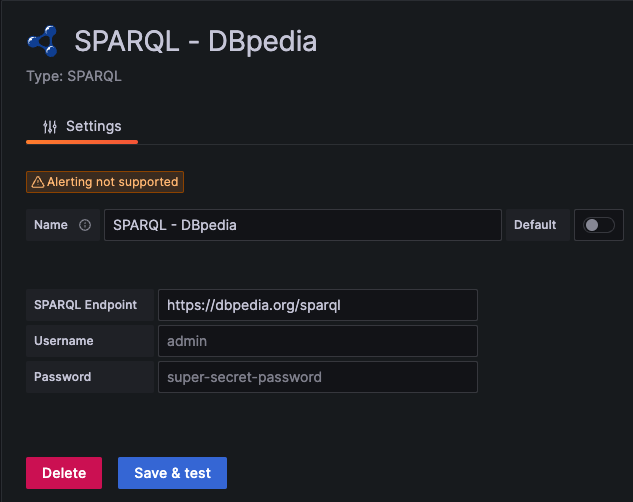
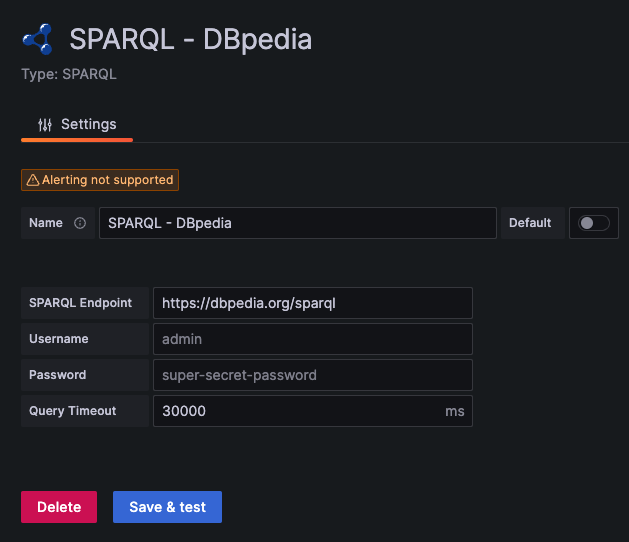
feat: configure the query timeout value

diff --git a/src/components/ConfigEditor.tsx b/src/components/ConfigEditor.tsx
@@ -24,6 +24,14 @@ export function ConfigEditor(props: Props) {
     onOptionsChange({ ...options, jsonData });
   };
 
+  const onTimeoutChange = (event: ChangeEvent<HTMLInputElement>) => {
+    const jsonData = {
+      ...options.jsonData,
+      timeout: event.target.value,
+    };
+    onOptionsChange({ ...options, jsonData });
+  };
+
   // Secure field (only sent to the backend)
   const onPasswordChange = (event: ChangeEvent<HTMLInputElement>) => {
     onOptionsChange({
@@ -73,6 +81,16 @@ export function ConfigEditor(props: Props) {
           placeholder="super-secret-password"
           width={40}
           autoComplete="new-password"
+        />
+      </InlineField>
+      <InlineField label="Query Timeout" labelWidth={16}>
+        <Input
+          type="number"
+          onChange={onTimeoutChange}
+          value={jsonData.timeout || ''}
+          placeholder="30000"
+          width={40}
+          suffix="ms"
         />
       </InlineField>
     </div>

diff --git a/src/types.ts b/src/types.ts
@@ -15,6 +15,8 @@ SELECT * WHERE {
 `,
 };
 
+export const DEFAULT_QUERY_TIMEOUT = 30000; // 30 seconds
+
 /**
  * These are options configured for each DataSource instance
  */
@@ -22,6 +24,7 @@ export interface MyDataSourceOptions extends DataSourceJsonData {
   endpoint?: string;
   username?: string;
   database?: string;
+  timeout?: string;
 }
 
 /**

diff --git a/pkg/plugin/datasource.go b/pkg/plugin/datasource.go
@@ -5,6 +5,7 @@ import (
 	"encoding/json"
 	"fmt"
 	"regexp"
+	"strconv"
 	"strings"
 	"time"
 
@@ -29,7 +30,8 @@ var (
 
 type JSONDataStruct struct {
 	Username string `json:"username"`
-	Endpint  string `json:"endpoint"`
+	Endpoint string `json:"endpoint"`
+	Timeout  string `json:"timeout"`
 }
 
 // NewDatasource creates a new datasource instance.
@@ -44,14 +46,25 @@ func NewDatasource(_ context.Context, settings backend.DataSourceInstanceSetting
 	}
 
 	// Those are the configured fields from the datasource options
-	endpoint := jsonData.Endpint
+	endpoint := jsonData.Endpoint
 	username := jsonData.Username
 	password := settings.DecryptedSecureJSONData["password"]
+	timeoutStr := jsonData.Timeout
+
+	// If the timeout is not set, use a default value of 30 seconds
+	if timeoutStr == "" {
+		timeoutStr = "30000"
+	}
+
+	timeout, err := strconv.ParseInt(timeoutStr, 10, 0)
+	if err != nil {
+		return nil, fmt.Errorf("error parsing query timeout value: %w", err)
+	}
 
 	// Create a new SPARQL repo
 	repo, err := sparql.NewRepo(endpoint,
 		sparql.DigestAuth(username, password),
-		sparql.Timeout(time.Millisecond*1500),
+		sparql.Timeout(time.Millisecond*time.Duration(timeout)),
 	)
 	if err != nil {
 		return nil, fmt.Errorf("error initializing SPARQL repo: %w", err)

diff --git a/.changeset/metal-donkeys-yawn.md b/.changeset/metal-donkeys-yawn.md
@@ -1,0 +1,5 @@
+---
+"@ludovicm67/sparql-datasource": minor
+---
+
+Let the user configure the query timeout value
